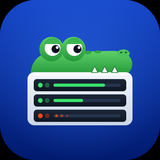
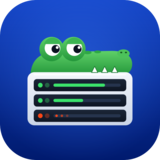
Explain location access before iOS asks, and in the README
- First Connect with "Stay connected" on shows a short explainer (why
  location keeps the session alive, nothing stored or sent, pick "Allow
  While Using App"); Continue shows iOS's prompt and logs in once it's
  answered, Not now logs in without background mode.
- BackgroundKeeper is observable so the UI can react to the choice.
- README: "Why hpg asks for your location" section with a screenshot;
  icon with transparent corners.

diff --git a/HPGQueue/Views/LoginView.swift b/HPGQueue/Views/LoginView.swift
@@ -4,6 +4,8 @@ struct LoginView: View {
     @Environment(Monitor.self) private var monitor
     @State private var password = ""
     @FocusState private var focus: Field?
+    @State private var showLocationIntro = false
+    @State private var connectAfterPermission = false
     private enum Field { case user, password }
 
     var body: some View {
@@ -71,6 +73,33 @@ struct LoginView: View {
             if password.isEmpty, let saved = monitor.savedPassword { password = saved }
             if monitor.user.isEmpty { focus = .user }
         }
+        .sheet(isPresented: $showLocationIntro) {
+            LocationIntroView {
+                // Continue: show iOS's prompt, and log in once it's answered.
+                showLocationIntro = false
+                connectAfterPermission = true
+                monitor.keeper.requestPermission()
+            } notNow: {
+                showLocationIntro = false
+                monitor.stayConnected = false
+                startLogin()
+            }
+        }
+        .onChange(of: monitor.keeper.status) { _, status in
+            guard connectAfterPermission, status != .notDetermined else { return }
+            connectAfterPermission = false
+            startLogin()
+        }
+        #if DEBUG
+        .task {
+            // `-locationintro` previews the location explainer, as if Connect had just been tapped.
+            if CommandLine.arguments.contains("-locationintro") {
+                try? await Task.sleep(for: .milliseconds(300))
+                focus = nil
+                showLocationIntro = true
+            }
+        }
+        #endif
         .onChange(of: monitor.user) { _, _ in
             if let saved = monitor.savedPassword { password = saved }
         }
@@ -80,7 +109,108 @@ struct LoginView: View {
         guard !monitor.user.isEmpty, !password.isEmpty else { return }
         Haptics.tap()
         focus = nil
-        monitor.connect(password: password)
+        // First time with "Stay connected" on: explain the location prompt before iOS shows it.
+        if monitor.stayConnected && monitor.keeper.undecided {
+            showLocationIntro = true
+        } else {
+            startLogin()
+        }
+    }
+
+    private func startLogin() { monitor.connect(password: password) }
+}
+
+/// Shown once, before iOS's location prompt: why hpg asks, and which option to pick.
+struct LocationIntroView: View {
+    let `continue`: () -> Void
+    let notNow: () -> Void
+
+    var body: some View {
+        VStack(spacing: 0) {
+            ScrollView {
+                VStack(alignment: .leading, spacing: 18) {
+                    VStack(spacing: 12) {
+                        Image(systemName: "location.fill")
+                            .font(.system(size: 34, weight: .semibold))
+                            .foregroundStyle(.white)
+                            .frame(width: 64, height: 64)
+                            .background(Color.blue.gradient, in: .rect(cornerRadius: 18, style: .continuous))
+                        Text("Stay connected in the background")
+                            .font(.title2.bold())
+                            .multilineTextAlignment(.center)
+                    }
+                    .frame(maxWidth: .infinity)
+                    .padding(.top, 28)
+
+                    IntroRow(icon: "moon.zzz.fill", tint: .indigo,
+                             title: "iOS pauses apps you leave",
+                             text: "Soon after you switch away, iOS freezes hpg and the connection drops, so you'd need your password and Duo again.")
+                    IntroRow(icon: "location.fill", tint: .blue,
+                             title: "Location keeps hpg running",
+                             text: "It's one of the few things iOS lets keep an app awake. hpg uses the coarsest setting (about 3 km) and ignores the result.")
+                    IntroRow(icon: "lock.shield.fill", tint: .green,
+                             title: "Nothing is stored or sent",
+                             text: "Your location never leaves the phone. A blue pill shows in the status bar while it's on.")
+
+                    VStack(alignment: .leading, spacing: 10) {
+                        Text("On the next screen, choose")
+                            .font(.subheadline).foregroundStyle(.secondary)
+                        Text("Allow While Using App")
+                            .font(.body.weight(.semibold))
+                            .frame(maxWidth: .infinity)
+                            .padding(.vertical, 12)
+                            .background(Color(.tertiarySystemFill), in: .capsule)
+                            .overlay(Capsule().strokeBorder(Color.blue, lineWidth: 2))
+                        Text("Allow Once works too, but iOS will ask again every time you open hpg.")
+                            .font(.footnote).foregroundStyle(.secondary)
+                    }
+                    .padding(16)
+                    .background(Color(.secondarySystemGroupedBackground), in: .rect(cornerRadius: 16, style: .continuous))
+                }
+                .padding(.horizontal, 24)
+            }
+
+            VStack(spacing: 10) {
+                Button { Haptics.tap(); `continue`() } label: {
+                    Text("Continue").font(.headline).frame(maxWidth: .infinity)
+                }
+                .buttonStyle(.borderedProminent)
+                .controlSize(.large)
+                Button { Haptics.tap(); notNow() } label: {
+                    Text("Not now").frame(maxWidth: .infinity)
+                }
+                .controlSize(.large)
+                Text("Not now logs in without background mode. You can turn it on later in Settings.")
+                    .font(.caption).foregroundStyle(.secondary)
+                    .multilineTextAlignment(.center)
+            }
+            .padding(.horizontal, 24)
+            .padding(.vertical, 16)
+        }
+        .background(Color(.systemGroupedBackground))
+        .interactiveDismissDisabled()
+        .onAppear { UIApplication.shared.sendAction(#selector(UIResponder.resignFirstResponder), to: nil, from: nil, for: nil) }
+    }
+}
+
+private struct IntroRow: View {
+    let icon: String
+    let tint: Color
+    let title: String
+    let text: String
+
+    var body: some View {
+        HStack(alignment: .top, spacing: 14) {
+            Image(systemName: icon)
+                .font(.title3)
+                .foregroundStyle(tint)
+                .frame(width: 30)
+            VStack(alignment: .leading, spacing: 3) {
+                Text(title).font(.subheadline.weight(.semibold))
+                Text(text).font(.subheadline).foregroundStyle(.secondary)
+                    .fixedSize(horizontal: false, vertical: true)
+            }
+        }
     }
 }
 

diff --git a/HPGQueue/Support/BackgroundKeeper.swift b/HPGQueue/Support/BackgroundKeeper.swift
@@ -1,4 +1,5 @@
 import CoreLocation
+import Observation
 import UIKit
 
 /// iOS suspends an app a few seconds after it leaves the screen, which would drop the SSH
@@ -9,13 +10,15 @@ import UIKit
 /// With "While Using" permission iOS only lets location updates *continue* in the background,
 /// they can't be started there. So updates start while the app is on screen (as soon as a login
 /// begins) and keep running until you disconnect; going to the background then just carries on.
-@MainActor
+@MainActor @Observable
 final class BackgroundKeeper: NSObject, CLLocationManagerDelegate {
-    private let manager = CLLocationManager()
-    private var task: UIBackgroundTaskIdentifier = .invalid
-    private var activity: CLBackgroundActivitySession?
-    private var wanted = false
-    private(set) var running = false
+    @ObservationIgnored private let manager = CLLocationManager()
+    @ObservationIgnored private var task: UIBackgroundTaskIdentifier = .invalid
+    @ObservationIgnored private var activity: CLBackgroundActivitySession?
+    @ObservationIgnored private var wanted = false
+    @ObservationIgnored private(set) var running = false
+    /// Location permission, kept current so the UI can react to the user's choice.
+    private(set) var status: CLAuthorizationStatus = .notDetermined
 
     override init() {
         super.init()
@@ -24,15 +27,13 @@ final class BackgroundKeeper: NSObject, CLLocationManagerDelegate {
         manager.distanceFilter = CLLocationDistanceMax
         manager.pausesLocationUpdatesAutomatically = false
         manager.activityType = .other
+        status = manager.authorizationStatus
     }
 
-    var authorized: Bool {
-        [.authorizedWhenInUse, .authorizedAlways].contains(manager.authorizationStatus)
-    }
-
-    var denied: Bool {
-        [.denied, .restricted].contains(manager.authorizationStatus)
-    }
+    var authorized: Bool { [.authorizedWhenInUse, .authorizedAlways].contains(status) }
+    var denied: Bool { [.denied, .restricted].contains(status) }
+    /// iOS hasn't asked yet, so the next request shows the system prompt.
+    var undecided: Bool { status == .notDetermined }
 
     func requestPermission() {
         if manager.authorizationStatus == .notDetermined { manager.requestWhenInUseAuthorization() }
@@ -76,7 +77,8 @@ final class BackgroundKeeper: NSObject, CLLocationManagerDelegate {
     }
 
     nonisolated func locationManagerDidChangeAuthorization(_ manager: CLLocationManager) {
-        Task { @MainActor in self.startUpdates() }
+        let s = manager.authorizationStatus
+        Task { @MainActor in self.status = s; self.startUpdates() }
     }
     nonisolated func locationManager(_ manager: CLLocationManager, didUpdateLocations locations: [CLLocation]) {}
     nonisolated func locationManager(_ manager: CLLocationManager, didFailWithError error: Error) {}

diff --git a/README.md b/README.md
@@ -32,12 +32,33 @@
   iPhone Keychain, and only if you choose *Remember password*.
 - **Commands**: everything runs on the login node and is read-only: `squeue`, `sacctmgr`, `sinfo` and
   `blue_quota`. hpg never submits or cancels jobs.
-- **Staying connected**: iOS suspends apps shortly after they leave the screen, which would drop the
-  SSH session. With *Stay connected in background* on (the default), hpg keeps running using the
-  coarsest location updates (about 3 km, never stored or sent anywhere). That's the same approach
-  Blink Shell uses, and you'll see the blue location pill. Turn it off in Settings if you prefer.
-  Swiping the app away always closes the connection.
+- **Staying connected**: see [Why hpg asks for your location](#why-hpg-asks-for-your-location).
 - **Host key**: pinned on first login (trust on first use) and checked on every login after.
+
+## Why hpg asks for your location
+
+<img src="docs/screenshots/location.png" width="200" align="right" alt="Location explainer">
+
+iOS freezes an app a few seconds after you switch away from it, and a frozen app's SSH connection
+drops. Without a workaround you'd type your password and approve Duo again every time you came back.
+
+iOS only lets apps keep running in the background for a few reasons (playing audio, navigation,
+calls…), and location updates are the one an SSH app can use. Blink Shell does the same. So with
+*Stay connected in background* on (the default):
+
+- hpg asks for the **coarsest** location (about 3 km) and **ignores** the results. Nothing is stored
+  or sent anywhere, including to HiPerGator.
+- It's only active while you're logging in or connected; disconnecting turns it off.
+- You'll see the blue location pill in the status bar while hpg is in the background.
+- Swiping hpg away in the app switcher still ends the session.
+
+The first time you tap **Connect**, hpg explains this before iOS asks. Choose **Allow While Using
+App**. *Allow Once* also works, but iOS will ask again every time you open hpg. Prefer not to? Tap
+*Not now* (or turn the setting off later in Settings): hpg works the same while it's on screen, you
+still get about 30 seconds to approve Duo in another app, and leaving it for longer means logging in
+again.
+
+<br clear="right">
 
 ## Install
 
@@ -72,12 +93,12 @@ sign with your own Apple ID and install, without Xcode.
 ### First login
 
 Enter your GatorLink username and password and tap **Connect**. Allow location **While Using App**
-(that's what keeps the session alive in the background), approve the Duo push, and come back to hpg.
+(see [why](#why-hpg-asks-for-your-location)), approve the Duo push, and come back to hpg.
 
 ## Develop
 
 - Debug launch arguments: `-demo` opens on demo data (`-tab 1` for Allocations); `-duo` shows a sample
-  Duo menu; `-pushwait` shows the "Check your phone" screen.
+  Duo menu; `-pushwait` shows the "Check your phone" screen; `-locationintro` shows the location explainer.
 - `HPGQueue/Model/Slurm.swift` has the remote commands and their parsers;
   `HPGQueue/SSH/SSHClient.swift` wraps libssh2 (keyboard-interactive auth, exec, keepalive).
 - The icon's source is `Design/icon.svg`.
